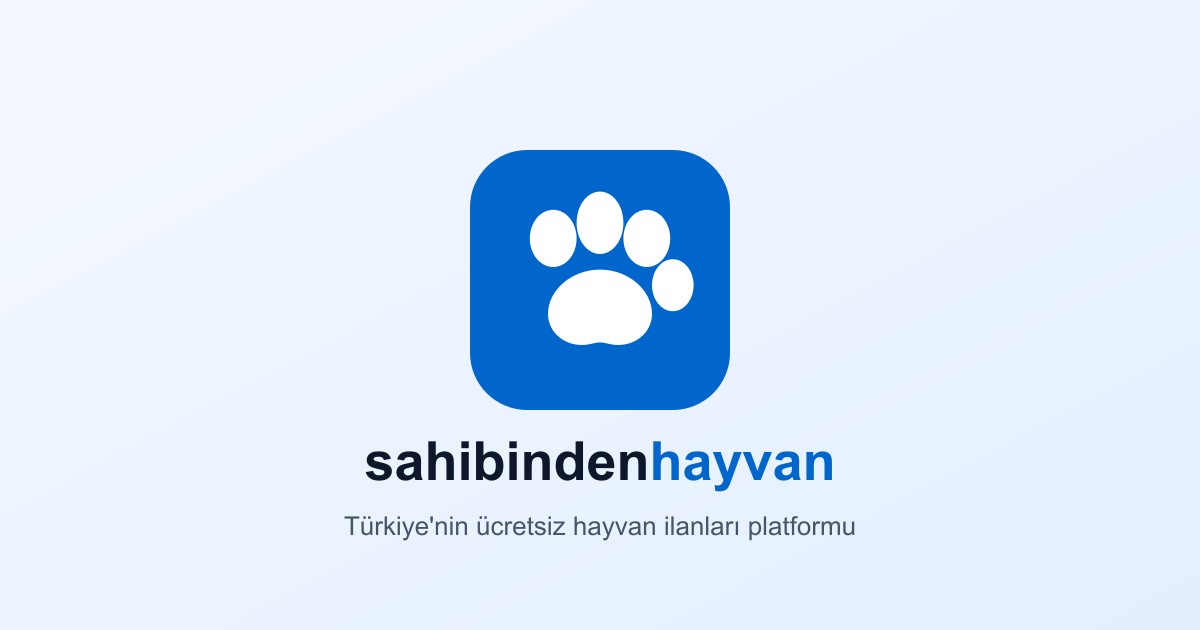
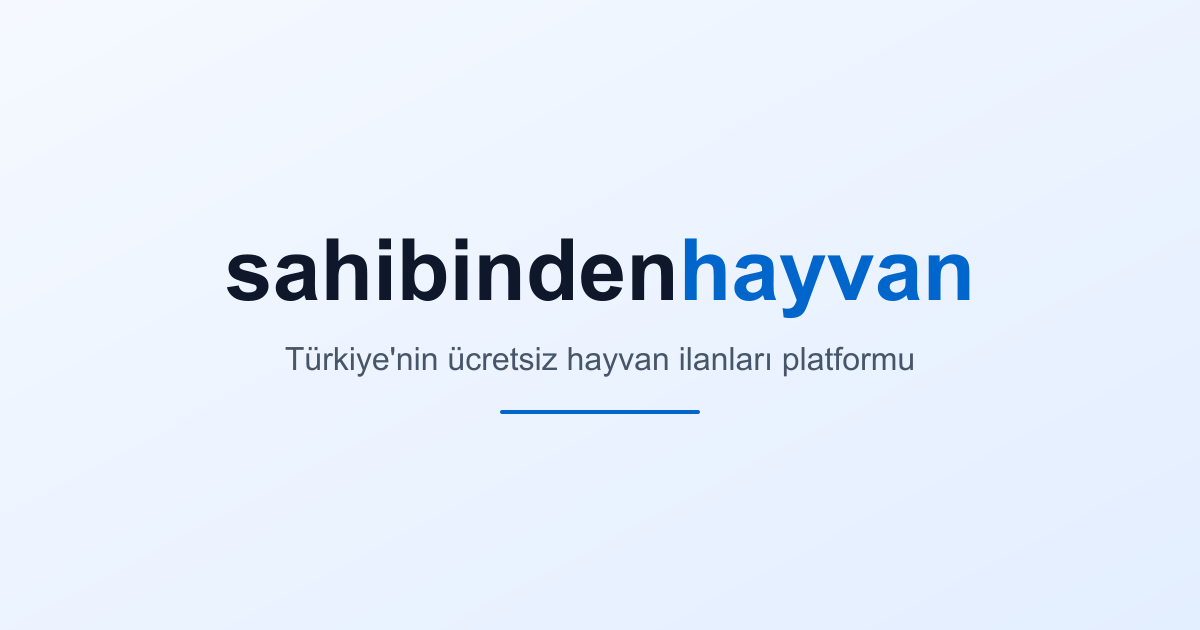
Yan menu konumunu duzelt, pati isaretini kaldir, arayuzu daralt
Yan menunun ust kismi ust barin altinda kaliyordu
--------------------------------------------------
ui/sidebar, menuyu --navbar-height degiskenine gore konumluyor ve varsayilani
3.5rem. Gercek ust bar ise piyasa seridi + menu satirindan olusuyor (~77px),
yani aradaki fark kadar kismi barin altinda gizli kaliyordu. Navbar artik
kendi yuksekligini ResizeObserver ile olcup bu degiskene yaziyor; serit
yuklenmese veya ekran boyutu degisse de dogru kaliyor.

Marka isareti yalnizca yazi
---------------------------
Pati ikonu ust bardan, footer'dan ve acilis ekranindan kaldirildi; marka
sahibindenhayvan adinin kendisi. Favicon ve PWA ikonlari da patiden sh
harf isaretine cevrildi, OG gorseli yeniden uretildi.

Favicon'a surum parametresi eklendi (?v=3): tarayicilar favicon'u cok agresif
onbellege aliyor ve dosya degismesine ragmen eski Replit logosu gorunmeye
devam ediyordu.

Daraltma
--------
- Yan menu 16rem -> 13.5rem (mobil 18rem -> 16rem)
- Footer dolgusu, baslik bosluklari ve satir araliklari kisaldi
- Logo metni bir kademe kucultuldu

Changed region(s): [[0.185, 0.2111, 0.8325, 0.6635], [0.3083, 0.6937, 0.7092, 0.7841], [0.2775, 0.8143, 0.7092, 0.8746]]

diff --git a/client/src/components/logo.tsx b/client/src/components/logo.tsx
@@ -1,69 +1,70 @@
 import { cn } from "@/lib/utils";
-import { PawPrint } from "lucide-react";
+
+/**
+ * Marka işareti — yalnızca yazı.
+ *
+ * Daha önce metnin yanında bir pati ikonu vardı; markanın kendisi
+ * "sahibindenhayvan" adı olduğu için ikon kaldırıldı. Böylece üst barda
+ * yer de kazanılıyor.
+ */
 
 interface LogoProps {
   className?: string;
   size?: "sm" | "md" | "lg" | "xl";
   showText?: boolean;
+  /** Dar alanlarda yalnızca kısaltma gösterir ("sh") */
   iconOnly?: boolean;
 }
 
+const textSizeClasses = {
+  sm: "text-sm",
+  md: "text-base",
+  lg: "text-lg",
+  xl: "text-xl",
+} as const;
+
+/** İsim iki renkli yazılır: "sahibinden" koyu, "hayvan" marka rengi */
+function Wordmark({ size }: { size: keyof typeof textSizeClasses }) {
+  return (
+    <span
+      className={cn("font-bold tracking-tight leading-none whitespace-nowrap", textSizeClasses[size])}
+      data-testid="logo-text"
+    >
+      <span className="text-foreground">sahibinden</span>
+      <span className="text-primary">hayvan</span>
+    </span>
+  );
+}
+
 export function Logo({ className, size = "md", showText = true, iconOnly = false }: LogoProps) {
-  const sizeClasses = {
-    sm: "h-6",
-    md: "h-8",
-    lg: "h-10",
-    xl: "h-14",
-  };
-
-  const textSizeClasses = {
-    sm: "text-sm",
-    md: "text-lg",
-    lg: "text-xl",
-    xl: "text-2xl",
-  };
-
-  const iconSizeClasses = {
-    sm: "w-5 h-5",
-    md: "w-7 h-7",
-    lg: "w-9 h-9",
-    xl: "w-12 h-12",
-  };
-
   if (iconOnly) {
     return (
       <div className={cn("flex items-center justify-center", className)} data-testid="logo-icon">
-        <PawPrint className={cn(iconSizeClasses[size], "text-primary")} />
+        <span className={cn("font-bold tracking-tight text-primary", textSizeClasses[size])}>
+          sh
+        </span>
       </div>
     );
   }
 
   return (
-    <div className={cn("flex items-center gap-2", sizeClasses[size], className)} data-testid="logo">
-      <PawPrint className={cn(iconSizeClasses[size], "text-primary shrink-0")} />
-      {showText && (
-        <span className={cn("font-bold tracking-tight", textSizeClasses[size])} data-testid="logo-text">
-          <span className="text-foreground">sahibinden</span>
-          <span className="text-primary">hayvan</span>
-        </span>
-      )}
+    <div className={cn("flex items-center", className)} data-testid="logo">
+      {showText && <Wordmark size={size} />}
     </div>
   );
 }
 
+/** Giriş/kayıt gibi sayfalarda kullanılan büyük, alt başlıklı biçim */
 export function LogoFull({ className }: { className?: string }) {
   return (
-    <div className={cn("flex items-center gap-2 sm:gap-3", className)} data-testid="logo-full">
-      <div className="relative flex items-center justify-center w-10 h-10 sm:w-14 sm:h-14 rounded-full bg-primary/10 shrink-0">
-        <PawPrint className="w-6 h-6 sm:w-9 sm:h-9 text-primary" />
-      </div>
-      <div className="flex flex-col min-w-0">
-        <span className="text-base sm:text-2xl font-bold tracking-tight leading-none">
-          <span className="text-foreground">sahibinden</span>
-          <span className="text-primary">hayvan</span>
-        </span>
-        <span className="text-[10px] sm:text-xs text-muted-foreground">Türkiye'nin Hayvan Pazarı</span>
-      </div>
+    <div className={cn("flex flex-col items-center gap-0.5", className)} data-testid="logo-full">
+      <span className="text-xl sm:text-2xl font-bold tracking-tight leading-none">
+        <span className="text-foreground">sahibinden</span>
+        <span className="text-primary">hayvan</span>
+      </span>
+      <span className="text-[10px] sm:text-xs text-muted-foreground">
+        Türkiye'nin Hayvan Pazarı
+      </span>
     </div>
   );
 }

diff --git a/client/src/components/footer.tsx b/client/src/components/footer.tsx
@@ -5,8 +5,8 @@ import { CookieSettingsButton } from "@/components/cookie-consent";
 export function Footer() {
   return (
     <footer className="bg-muted/30 border-t mt-auto">
-      <div className="container mx-auto px-4 py-6 sm:py-8">
-        <div className="grid grid-cols-1 sm:grid-cols-2 md:grid-cols-4 gap-6 md:gap-8">
+      <div className="container mx-auto px-4 py-5 sm:py-6">
+        <div className="grid grid-cols-1 sm:grid-cols-2 md:grid-cols-4 gap-5 md:gap-6">
           <div className="sm:col-span-2 md:col-span-1">
             <Link href="/" className="inline-block">
               <LogoFull className="h-auto w-auto max-w-[200px] sm:max-w-none mb-3" />
@@ -17,8 +17,8 @@ export function Footer() {
           </div>
 
           <div>
-            <h4 className="font-semibold text-sm mb-3" data-testid="footer-section-platform">Platform</h4>
-            <ul className="space-y-2 text-sm">
+            <h4 className="font-semibold text-sm mb-2" data-testid="footer-section-platform">Platform</h4>
+            <ul className="space-y-1.5 text-sm">
               <li>
                 <Link href="/" className="text-muted-foreground hover:text-foreground transition-colors" data-testid="footer-link-home">
                   Ana Sayfa
@@ -63,8 +63,8 @@ export function Footer() {
           </div>
 
           <div>
-            <h4 className="font-semibold text-sm mb-3" data-testid="footer-section-legal">Yasal</h4>
-            <ul className="space-y-2 text-sm">
+            <h4 className="font-semibold text-sm mb-2" data-testid="footer-section-legal">Yasal</h4>
+            <ul className="space-y-1.5 text-sm">
               <li>
                 <Link href="/kullanim-kosullari" className="text-muted-foreground hover:text-foreground transition-colors" data-testid="footer-link-terms">
                   Kullanım Koşulları
@@ -94,8 +94,8 @@ export function Footer() {
           </div>
 
           <div>
-            <h4 className="font-semibold text-sm mb-3" data-testid="footer-section-support">Destek</h4>
-            <ul className="space-y-2 text-sm">
+            <h4 className="font-semibold text-sm mb-2" data-testid="footer-section-support">Destek</h4>
+            <ul className="space-y-1.5 text-sm">
               <li>
                 <Link href="/yardim" className="text-muted-foreground hover:text-foreground transition-colors" data-testid="footer-link-help">
                   Yardım Merkezi
@@ -110,7 +110,7 @@ export function Footer() {
           </div>
         </div>
 
-        <div className="border-t mt-6 pt-6 flex flex-col md:flex-row items-center justify-between gap-4">
+        <div className="border-t mt-4 pt-4 flex flex-col md:flex-row items-center justify-between gap-3">
           <p className="text-xs text-muted-foreground text-center md:text-left" data-testid="footer-copyright">
             © {new Date().getFullYear()} sahibindenhayvan.com - Tüm hakları saklıdır.
           </p>

diff --git a/client/index.html b/client/index.html
@@ -17,22 +17,22 @@
     <meta property="og:url" content="https://sahibindenhayvan.com/" />
     <meta property="og:title" content="Sahibinden Hayvan - Türkiye'nin Ücretsiz Hayvan İlanları" />
     <meta property="og:description" content="Köpek, kedi, kuş, balık, at ve çiftlik hayvanı ilanları. Güvenilir satıcılardan ücretsiz ilan ver, hayvan sahiplen." />
-    <meta property="og:image" content="https://sahibindenhayvan.com/og-image.png" />
+    <meta property="og:image" content="https://sahibindenhayvan.com/og-image.png?v=3" />
     <meta property="og:locale" content="tr_TR" />
     <meta property="og:site_name" content="Sahibinden Hayvan" />
     
     <meta name="twitter:card" content="summary_large_image" />
     <meta name="twitter:title" content="Sahibinden Hayvan - Türkiye'nin Ücretsiz Hayvan İlanları" />
     <meta name="twitter:description" content="Köpek, kedi, kuş, balık, at ve çiftlik hayvanı ilanları. Güvenilir satıcılardan ücretsiz ilan ver." />
-    <meta name="twitter:image" content="https://sahibindenhayvan.com/og-image.png" />
+    <meta name="twitter:image" content="https://sahibindenhayvan.com/og-image.png?v=3" />
     
     <meta name="apple-mobile-web-app-capable" content="yes" />
     <meta name="apple-mobile-web-app-status-bar-style" content="default" />
     <meta name="apple-mobile-web-app-title" content="Sahibinden Hayvan" />
-    <link rel="icon" type="image/png" href="/favicon.png" />
-    <link rel="icon" type="image/png" sizes="192x192" href="/icons/icon-192x192.png" />
+    <link rel="icon" type="image/png" href="/favicon.png?v=3" />
+    <link rel="icon" type="image/png" sizes="192x192" href="/icons/icon-192x192.png?v=3" />
     <link rel="manifest" href="/manifest.json" />
-    <link rel="apple-touch-icon" href="/apple-touch-icon.png" />
+    <link rel="apple-touch-icon" href="/apple-touch-icon.png?v=3" />
     <link rel="preconnect" href="https://fonts.googleapis.com">
     <link rel="preconnect" href="https://fonts.gstatic.com" crossorigin>
     <link href="https://fonts.googleapis.com/css2?family=Inter:wght@300;400;500;600;700&family=Poppins:wght@400;500;600;700&family=Space+Grotesk:wght@400;500;600;700&display=swap" rel="stylesheet">

diff --git a/client/src/components/navbar.tsx b/client/src/components/navbar.tsx
@@ -105,8 +105,39 @@ export function Navbar() {
 
   const isAdmin = user?.role === "admin";
 
+  /**
+   * Üst barın GERÇEK yüksekliğini ölçüp CSS değişkenine yazar.
+   *
+   * Yan menü (ui/sidebar) `--navbar-height` değişkenine göre konumlanıyor ve
+   * varsayılanı 3.5rem. Oysa üst bar = piyasa şeridi + menü satırı; şerit
+   * yüklenip yüklenmemesine ve ekran boyutuna göre değişiyor. Sabit değer
+   * kullanıldığında yan menünün üst kısmı barın ALTINDA kalıyordu.
+   * Ölçüm ResizeObserver ile canlı takip ediliyor.
+   */
+  const headerRef = useRef<HTMLElement | null>(null);
+  useEffect(() => {
+    const el = headerRef.current;
+    if (!el) return;
+
+    const apply = () => {
+      document.documentElement.style.setProperty(
+        "--navbar-height",
+        `${el.getBoundingClientRect().height}px`
+      );
+    };
+
+    apply();
+    const observer = new ResizeObserver(apply);
+    observer.observe(el);
+    window.addEventListener("resize", apply);
+    return () => {
+      observer.disconnect();
+      window.removeEventListener("resize", apply);
+    };
+  }, []);
+
   return (
-    <header className="sticky top-0 z-50 border-b bg-background">
+    <header ref={headerRef} className="sticky top-0 z-50 border-b bg-background">
       {/* Bloomberg-style Market Ticker */}
       <MarketTicker />
       

diff --git a/client/src/components/splash-screen.tsx b/client/src/components/splash-screen.tsx
@@ -1,5 +1,5 @@
 import { useState, useEffect } from "react";
-import { PawPrint, ArrowRight, UserPlus } from "lucide-react";
+import { ArrowRight, UserPlus } from "lucide-react";
 import { Button } from "@/components/ui/button";
 
 const SPLASH_KEY = "sahibindenhayvan-onboarded";
@@ -53,8 +53,10 @@ export function SplashScreen({ onComplete }: SplashScreenProps) {
     >
       <div className="text-center px-6 max-w-lg animate-in fade-in slide-in-from-bottom-4 duration-500">
         <div className="relative mb-6">
-          <div className="w-28 h-28 mx-auto rounded-full bg-white/20 backdrop-blur-sm flex items-center justify-center shadow-2xl">
-            <PawPrint className="w-14 h-14 text-white" />
+          <div className="mx-auto flex items-center justify-center">
+            <span className="text-3xl sm:text-4xl font-bold tracking-tight text-white">
+              sahibinden<span className="text-white/70">hayvan</span>
+            </span>
           </div>
           <div className="absolute -bottom-2 left-1/2 -translate-x-1/2 bg-yellow-400 text-yellow-900 text-xs font-bold px-3 py-1 rounded-full">
             %100 ÜCRETSİZ

diff --git a/client/src/components/ui/sidebar.tsx b/client/src/components/ui/sidebar.tsx
@@ -27,8 +27,8 @@ import {
 
 const SIDEBAR_COOKIE_NAME = "sidebar_state"
 const SIDEBAR_COOKIE_MAX_AGE = 60 * 60 * 24 * 7
-const SIDEBAR_WIDTH = "16rem"
-const SIDEBAR_WIDTH_MOBILE = "18rem"
+const SIDEBAR_WIDTH = "13.5rem"
+const SIDEBAR_WIDTH_MOBILE = "16rem"
 const SIDEBAR_WIDTH_ICON = "3rem"
 const SIDEBAR_KEYBOARD_SHORTCUT = "b"
 
